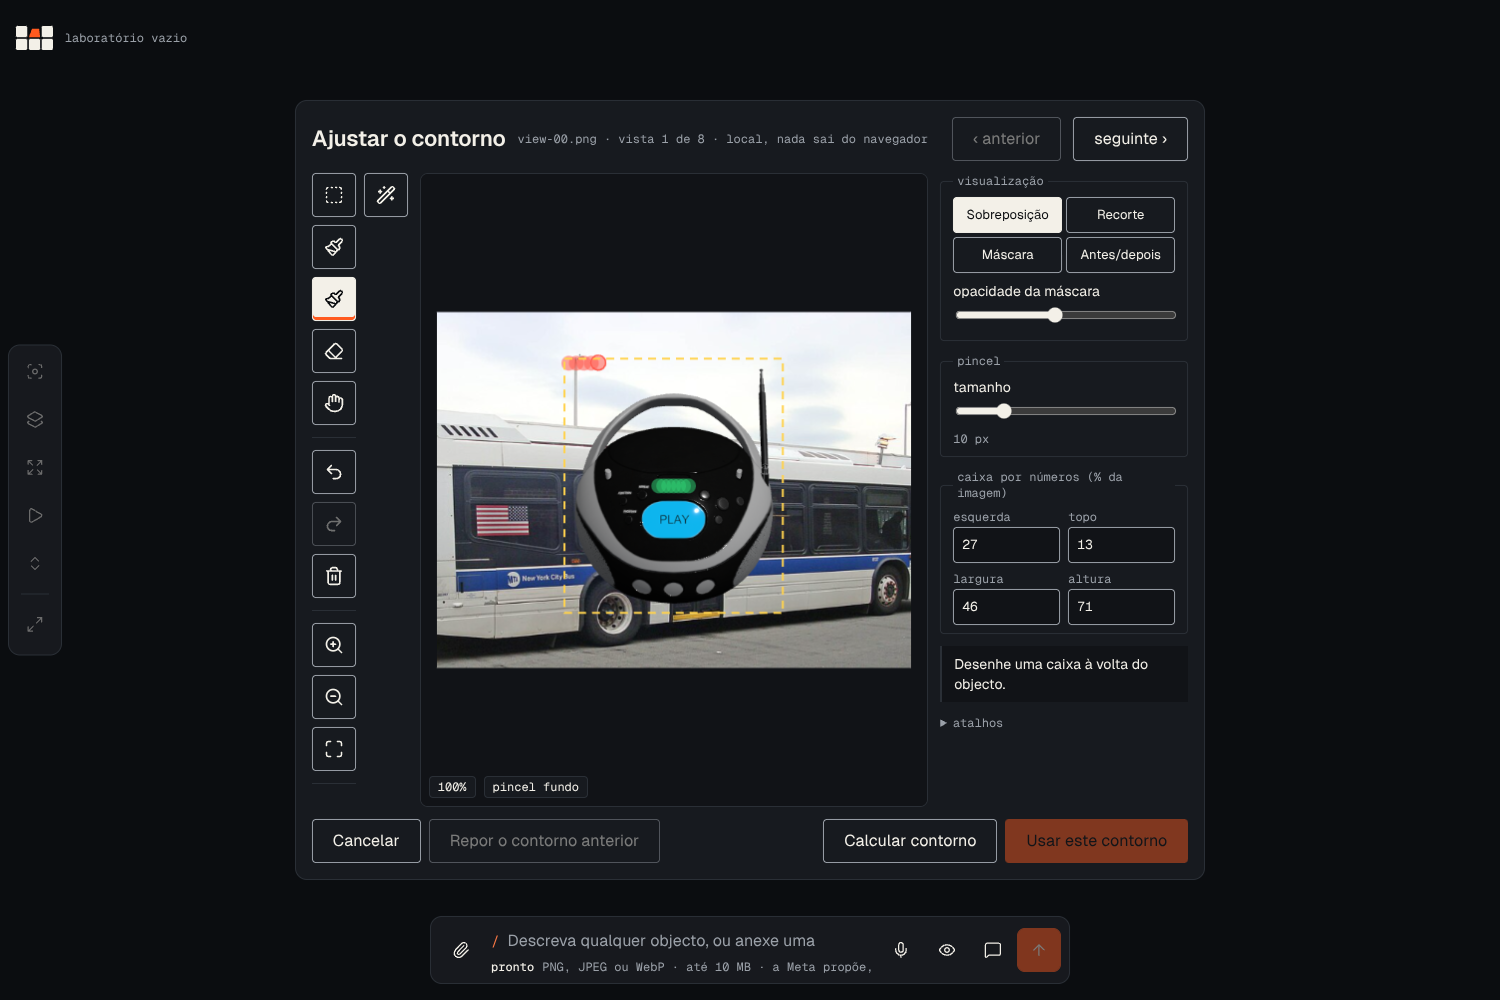
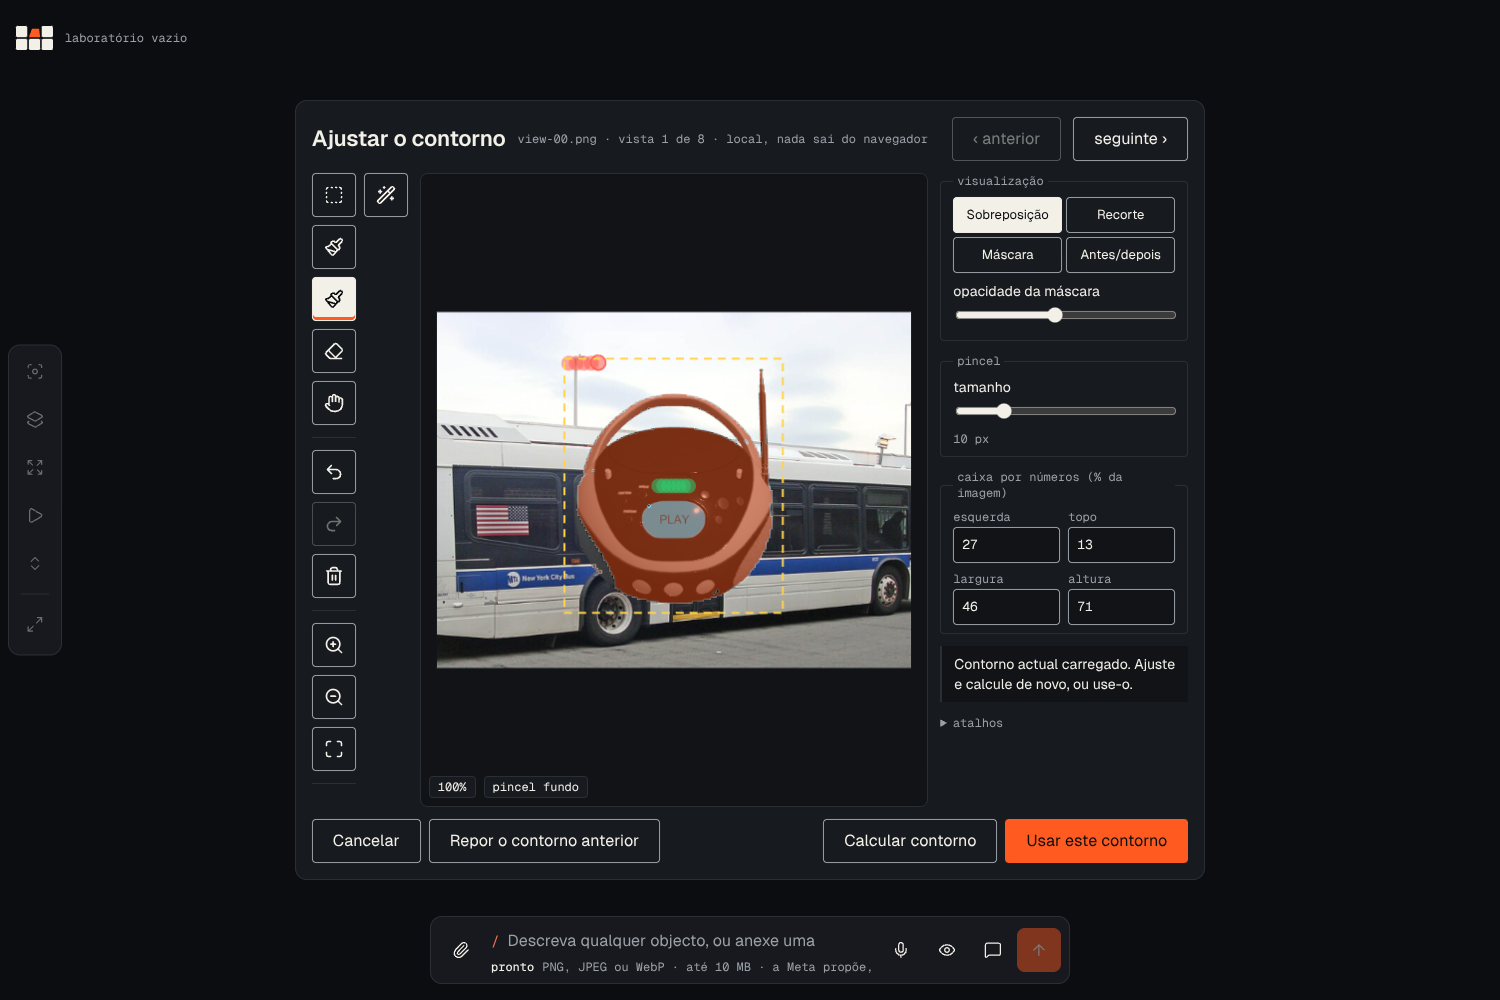
Reality: one-click human confirmation of an automatic outline (E2E-measured), co-segmentation result recorded
Claude-Session: https://claude.ai/code/session_013wFH9SHKMFc3SMeXgrF6ct

diff --git a/src/living/reality/intake-panel.ts b/src/living/reality/intake-panel.ts
@@ -106,7 +106,7 @@ export function mountRealityIntake(container: HTMLElement, deps: RealityIntakeDe
   const drawingSlots = (): Slot[] => [{ key: 'front', label: 'Frente', image: null, azimuth: '', thumb: '' }, { key: 'side', label: 'Lado direito', image: null, azimuth: '', thumb: '' }, { key: 'top', label: 'Topo', image: null, azimuth: '', thumb: '' }];
   const title = () => (container.querySelector<HTMLInputElement>('#rl-title')?.value.trim() || 'Objecto reconstruído de várias vistas').slice(0, 100);
 
-  const thumbs = (r: IntakeResult | null) => (r ? r.views : []).map((v, i) => `<li class="sp-comp" data-rl-view="${i}"><div class="sp-comp-head"><b>${esc(v.name)}</b><span class="u-label">contorno ${v.maskSource === 'confirmed' ? 'confirmado' : `automático${v.maskMethod ? ` (${esc(v.maskMethod)}) · confirme visualmente` : ''}`} · ${v.reliable ? 'credível' : 'NÃO credível'} · ${(v.foregroundRatio * 100).toFixed(0)}% da imagem</span></div>${v.reasons.length ? `<p class="u-small">${esc(v.reasons.join('; '))}</p>` : ''}<canvas data-rl-canvas="${i}" width="120" height="90" aria-label="Contorno extraído de ${esc(v.name)}"></canvas></li>`).join('');
+  const thumbs = (r: IntakeResult | null) => (r ? r.views : []).map((v, i) => `<li class="sp-comp" data-rl-view="${i}"><div class="sp-comp-head"><b>${esc(v.name)}</b><span class="u-label">contorno ${v.maskSource === 'confirmed' ? 'confirmado' : `automático${v.maskMethod ? ` (${esc(v.maskMethod)}) · confirme visualmente` : ''}`} · ${v.reliable ? 'credível' : 'NÃO credível'} · ${(v.foregroundRatio * 100).toFixed(0)}% da imagem</span></div>${v.reasons.length ? `<p class="u-small">${esc(v.reasons.join('; '))}</p>` : ''}<canvas data-rl-canvas="${i}" width="120" height="90" aria-label="Contorno extraído de ${esc(v.name)}"></canvas>${v.maskSource === 'automatic' && v.reliable && mode !== 'video' && mode !== 'drawing' ? `<button class="u-btn u-btn--outline" type="button" data-rl-confirm="${i}" aria-label="Confirmar que o contorno de ${esc(v.name)} está certo">O contorno está certo</button>` : ''}</li>`).join('');
   const strategyHtml = (r: IntakeResult | null) => {
     if (!r) return '';
     const kind: StrategyInput['kind'] = mode === 'drawing' ? 'drawing-3view' : mode === 'video' ? 'video' : 'multi-image';
@@ -179,6 +179,8 @@ export function mountRealityIntake(container: HTMLElement, deps: RealityIntakeDe
     busy = false; paint();
   };
   let sodRunner: SodRunner | null = null;
+  /** the images of the last analysis (with their automatic outlines) and the slot each came from, so a person can confirm an automatic outline as it is */
+  let lastImages: IntakeImage[] = [], lastSlots: number[] = [];
   /** Gives every image without a person's outline the best automatic one (static background, salient network, colour), recording the method; the rest is left for the gate and the editor. */
   const withAutoOutlines = async (images: IntakeImage[]): Promise<IntakeImage[]> => {
     const todo = images.map((im, i) => (im.mask ? -1 : i)).filter((i) => i >= 0); if (!todo.length) return images;
@@ -202,6 +204,7 @@ export function mountRealityIntake(container: HTMLElement, deps: RealityIntakeDe
       result = intakeOrbit(picks.map((i) => candidates[i]!), { azimuthsDeg: picks.map((i) => 360 * (videoTimes[i]! / videoDuration)), azimuthsAssumed: true, mode: 'video', ...elev() });
     } else {
       const images = await withAutoOutlines(slots.map((s) => s.image!).filter(Boolean));
+      lastImages = images; lastSlots = slots.map((s, i) => (s.image ? i : -1)).filter((i) => i >= 0);
       if (mode === 'orbit') {
         const az = slots.map((s) => Number(s.azimuth));
         if (az.some((a) => !Number.isFinite(a))) { problem = REFUSAL_COPY.POSE_COUNT_MISMATCH; result = null; return null; }
@@ -227,6 +230,12 @@ export function mountRealityIntake(container: HTMLElement, deps: RealityIntakeDe
   const onClick = (event: Event) => {
     const ed = (event.target as HTMLElement).closest<HTMLElement>('[data-rl-edit]');
     if (ed) { event.stopPropagation(); openEditor(Number(ed.dataset.rlEdit)); return; }
+    const cf = (event.target as HTMLElement).closest<HTMLElement>('[data-rl-confirm]');
+    if (cf) { // a person looked at the outline and says it is right: that is HUMAN CONFIRMATION (a different category from the automatic proposal)
+      event.stopPropagation(); const k = Number(cf.dataset.rlConfirm), slotIndex = lastSlots[k], img = lastImages[k];
+      if (slotIndex !== undefined && img?.mask) { slots[slotIndex]!.image = { ...img, maskSource: 'confirmed' }; delete (slots[slotIndex]!.image as { maskMethod?: string }).maskMethod; result = null; void analyse().then(() => paint()); }
+      return;
+    }
     const b = (event.target as HTMLElement).closest<HTMLElement>('[data-rl]'); if (!b) return;
     event.stopPropagation();
     const act = b.dataset.rl;

diff --git a/tests/e2e/reality-capture.pw.ts b/tests/e2e/reality-capture.pw.ts
@@ -60,6 +60,15 @@ const autoText = await page.locator('.rl-panel, [data-rl-strategy]').first().eva
 const autoLabelled = /automático \(/.test(autoText) && /confirme visualmente/.test(autoText);
 record('1 contorno automático: ou recusado (fail-closed) com «Ajustar contorno», ou aceite e rotulado «automático» com método e «confirme visualmente»', (refusedAuto >= 4 && strategyAuto === 'needs-input' && /Ajustar contorno/.test(await page.locator('[data-rl-strategy]').innerText())) || (refusedAuto < 4 && autoLabelled), `${refusedAuto} vistas recusadas, estratégia ${strategyAuto}, rotulado automático ${autoLabelled}`);
 
+// 1b. a person can confirm an automatic outline as it is: that view becomes HUMAN-confirmed, the others stay automatic (the categories are not mixed)
+const confirmable = await page.locator('[data-rl-confirm]').count();
+if (confirmable > 0) {
+  await page.click('[data-rl-confirm="0"]');
+  await page.waitForFunction(() => /confirmado/.test(document.querySelector('[data-rl-view="0"] .u-label')?.textContent ?? ''), null, { timeout: 60_000 });
+  const heads = await page.locator('[data-rl-view] .u-label').allInnerTexts(), confirmedNow = heads.filter((t) => /contorno confirmado/.test(t)).length, automaticNow = heads.filter((t) => /contorno autom/.test(t)).length;
+  record('1b «O contorno está certo» converte só essa vista em confirmação humana', confirmedNow === 1 && automaticNow === heads.length - 1, `${confirmedNow} confirmada, ${automaticNow} automáticas de ${heads.length}`);
+} else record('1b «O contorno está certo» converte só essa vista em confirmação humana', true, 'nenhum contorno automático credível para confirmar neste cenário (todos recusados)');
+
 // 2. interactive editor on every view: box around the object, one brush stroke inside (object) and one outside (background), compute, accept
 let editedOk = 0;
 for (let i = 0; i < 8; i++) {

diff --git a/reports/reality-engine/REPORT.md b/reports/reality-engine/REPORT.md
@@ -208,8 +208,10 @@ O contrato estrutural (ids estáveis, transformações, proveniência, versões 
 | degraded | 109 | 0,590 | 67% | 0,614 |
 
   A segmentação automática **continua insuficiente fora de câmara fixa**: com fundo a mudar, mais de metade dos contornos aceites estão errados e nem a escolha óptima entre candidatos (oráculo) o resolve — o conjunto de candidatos é que não chega. Alternativas medidas e rejeitadas (`segmentation-candidates.json`, 56 vistas): U²-Net-P 0,49; SAM ViT-B com caixa larga 0,42; SAM caixa+ponto 0,51; GrabCut com caixa central 0,48–0,51; escolha de candidato por concordância geométrica com o casco das outras vistas: **AUC 0,23–0,31 (pior que o acaso)**, porque os erros são consistentes entre vistas (o mesmo objecto saliente de fundo) e o casco de uma região estática é um prisma perfeitamente "consistente". Não foi adoptada.
+  Também testada e **retirada**: co-segmentação multivista (mapas de saliência elevados a um volume por votação leave-one-out com tolerância a vistas dissidentes, reprojectados e refinados por graph cut; entrada oráculo → 0,84–0,90 de IoU final, por isso a geometria está correcta). Com os mapas reais da rede, em `varied` (5 activos): 0,56 de IoU médio contra 0,59 da política actual — ganha onde mais de metade das vistas acertam (SheenChair 0,59→0,72, BoomBox 0,66→0,73) e perde onde acertam menos (ToyCar 0,62→0,28 a 0,65 conforme a tolerância). Sem ganho médio, sem critério fiável para saber em que caso se está: não integrada.
 - **Melhorias adoptadas (medidas):** (1) fundo estático passa a ter prioridade quando credível (0,61 → 0,75 em `fixed`); (2) o fundo estático já não declara fundo as ilhas estáticas encerradas pelo objecto nem os pixels estáticos junto dele, e re-estima o fundo por pixel nas vistas onde ficou descoberto (teste sintético com referência exacta: 0,75 → 0,92 de IoU médio).
 - **Segurança do resultado (`product-eval-cached.json`, caminho de produto):** em `varied` 2 de 14 recusados e 3 `partially_verified`; em `degraded` 3 recusados e 1 `partially_verified`; **nenhum** resultado com geometria má (> 6% da diagonal) foi chamado `partially_verified` nessas condições. Em `fixed` 12/14 são `partially_verified` e um deles (AntiqueCamera, 6,1%) tem geometria má: concordância entre vistas não prova forma quando todos os contornos erram da mesma maneira. **Nenhum contorno automático recebe agora tolerância de erro** (`outlineMethod` registado na evidência; só contornos de cor clássica em fundo liso ou confirmados à mão a recebem).
+- **Confirmação humana rápida:** cada contorno automático credível tem agora «O contorno está certo»; só essa vista passa a `confirmed` (E2E mede 1 confirmada, 7 automáticas), as categorias nunca se misturam.
 - **Corrigido:** contornos inconsistentes esvaziavam o casco e o construtor do plano falhava com `SPATIAL_V2_PLAN_INVALID_FIELDS` (teste falhou primeiro). Agora `REALITY_EMPTY_RECONSTRUCTION` com mensagem a dizer que há contornos errados.
 - Fora do âmbito sintético: **fotografias reais de objectos em fundo real com contorno de referência** continuam a ser a validação que falta (só há 1 conjunto pequeno em `tests/fixtures/photos-real`).
 
